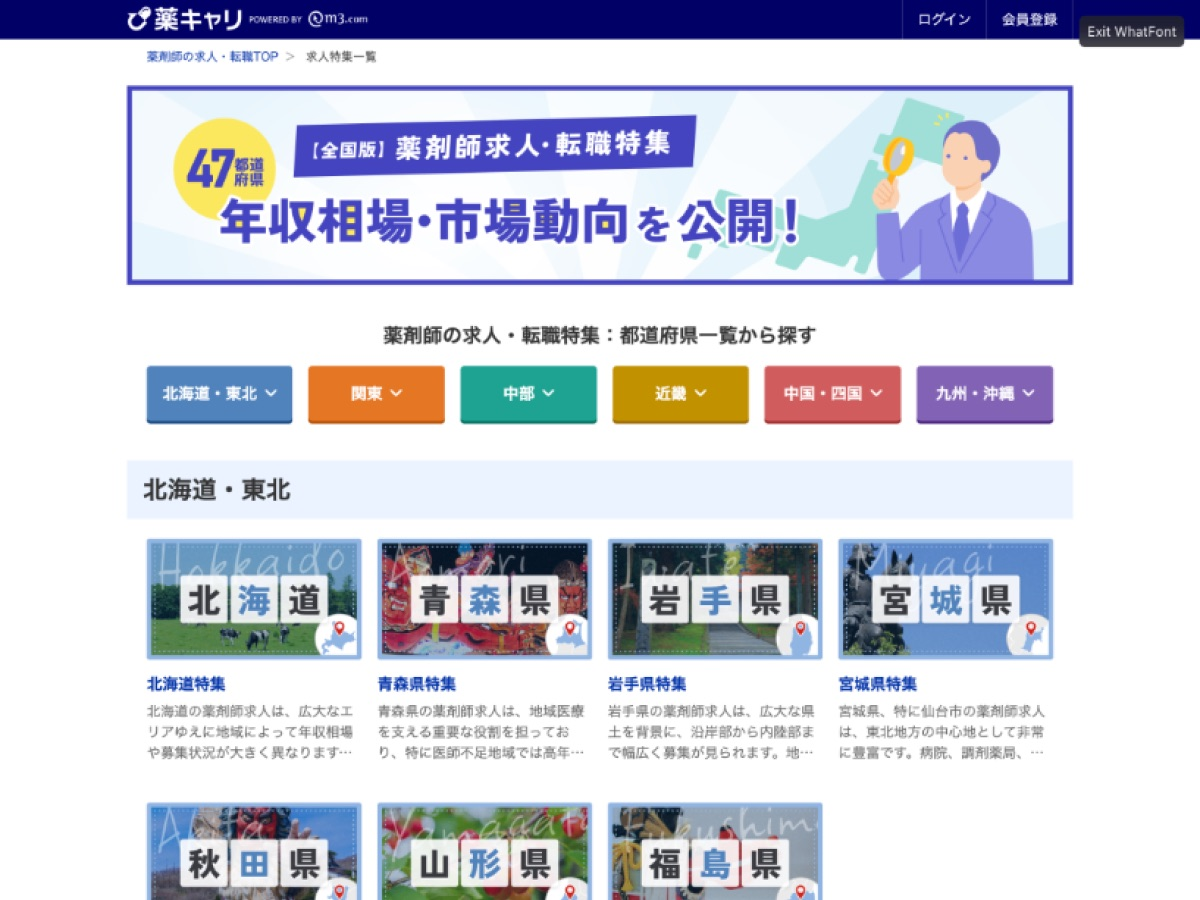
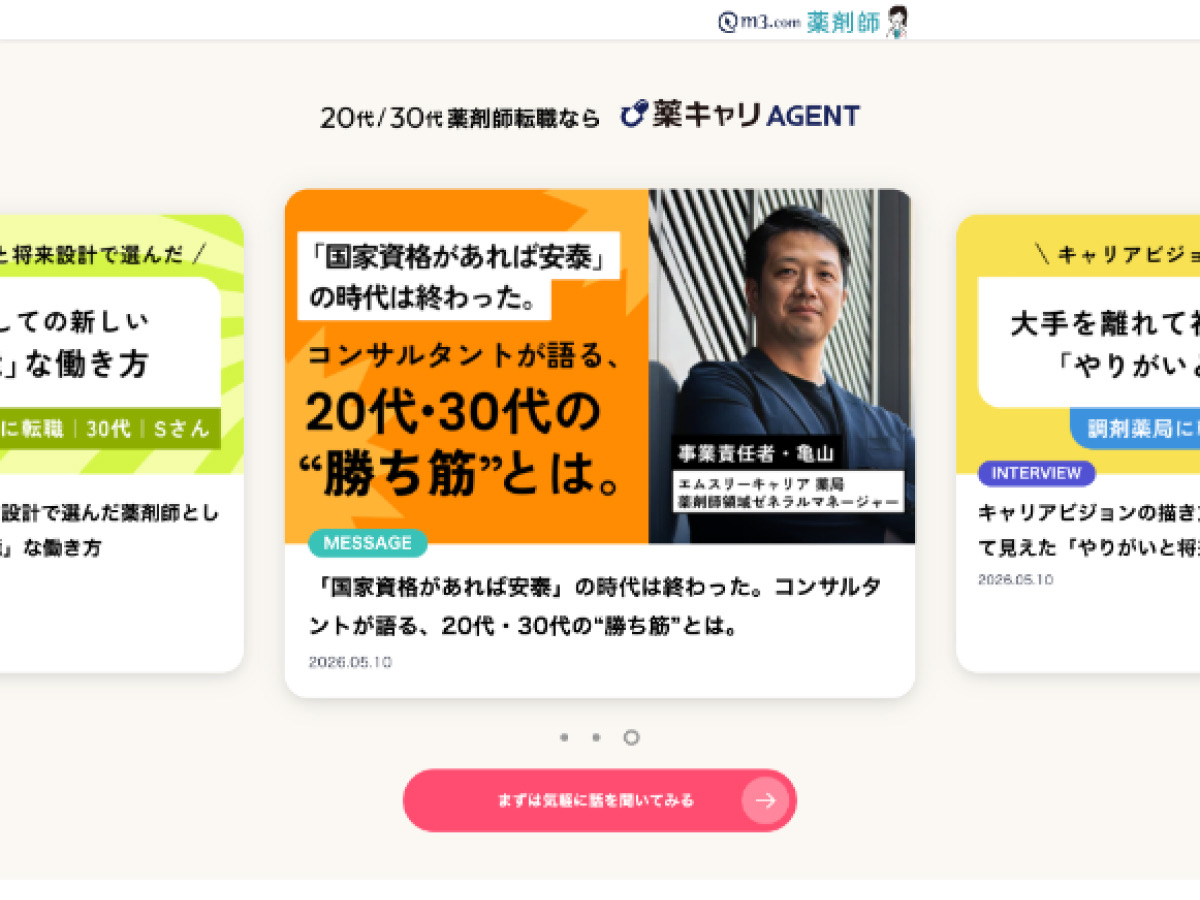
LP制作(若手薬剤師向け転職サービス)の画像・URL・制作年を更新
サムネイル画像を差し替え(300KB以下に軽量化)、公開URL
(https://pharmacist.m3.com/lp/youth)と制作年(2026年)を追記。

diff --git a/js/works-data.js b/js/works-data.js
@@ -172,9 +172,9 @@ const worksData = [
     client: '現職(社名非公開)',
     category: 'web-site',
     tags: ['Webサイト / LP'],
-    period: '',
+    period: '2026年',
     role: 'ビジュアル設計・改修',
-    url: '',
+    url: 'https://pharmacist.m3.com/lp/youth',
     images: ['images/works/10.jpg'],
     summary: '若手薬剤師向け転職サービスのLP制作・改修。ターゲットを明確に絞り込み、「ぱっと見で若手向けとわかること」「広告感を出さないこと」を意識してデザインした。公開後、想定よりPV・CVが伸びなかったため、データをもとに改修も行った。',
     points: [
